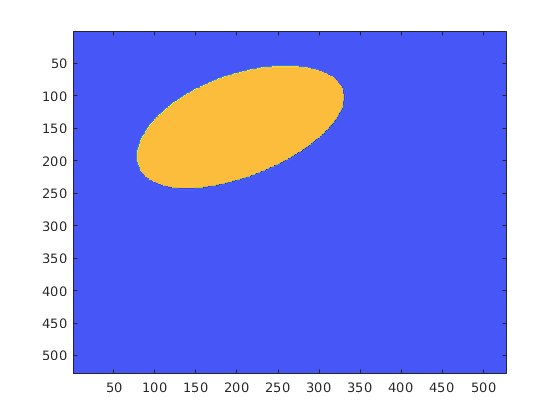
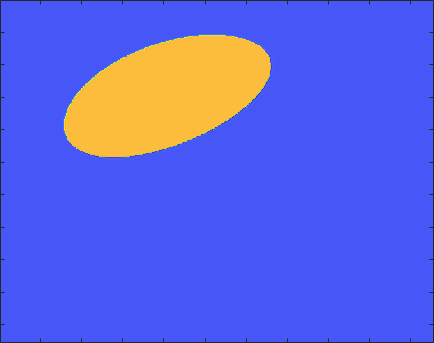
additional kernels

diff --git a/Laboratory/Scripts/ProtoPseudoReconstruction.m b/Laboratory/Scripts/ProtoPseudoReconstruction.m
@@ -1,7 +1,7 @@
-clear;
-clc;
+% clear;
+% clc;
 
-I = GetImageOfPower(GetRandomPower(4, - 1, 1, - 1, 1, false), - 1, 1, - 1, 1, 2 ^ 9 + 1, 2 ^ 9 + 1);
+% I = GetImageOfPower(GetRandomPower(4, - 1, 1, - 1, 1, false), - 1, 1, - 1, 1, 2 ^ 9 + 1, 2 ^ 9 + 1);
 
 P = [6435/8388608, -7293/8388608, -8415/1048576, 9945/1048576, 85085/2097152, -109395/2097152, -153153/1048576, 255255/1048576, 3828825/4194304, 3828825/4194304, 255255/1048576, -153153/1048576, -109395/2097152, 85085/2097152, 9945/1048576, -8415/1048576, -7293/8388608, 6435/8388608];
 n = 4;
@@ -42,6 +42,4 @@ for r = 0 : ceil(n / 2)
 end
 
 R = GetImageOfPower(quadprog(M' * M, [], [], [], eye(1, size(M, 2)), 1, [], [], [], optimset('display', 'off'))', 0, size(I, 1), 0, size(I, 2), 2 ^ 9 + 1, 2 ^ 9 + 1);
-imshow(I);
-figure;
 imshow(abs(I - R));

diff --git a/Bases/Power/Scripts/ReconstructPower.m b/Bases/Power/Scripts/ReconstructPower.m
@@ -1,19 +1,19 @@
-%clear;
-%clc;
+% clear;
+% clc;
 
 n = 4;
-x_a = - 1;
-x_b = 1;
-y_a = - 1;
-y_b = 1;
-m_x = 2 ^ 8;
-m_y = 2 ^ 8;
+x_a = - 16;
+x_b = 16;
+y_a = - 16;
+y_b = 16;
+m_x = 2 ^ 4;
+m_y = 2 ^ 4;
 psnr = - 1;
 
 x_n = m_x * (x_b - x_a) + 1;
 y_n = m_y * (y_b - y_a) + 1;
 
-%I = GetImageOfPower(GetRandomPower(n, x_a, x_b, y_a, y_b, false), x_a, x_b, y_a, y_b, x_n, y_n);
+% I = GetImageOfPower(IC, x_a, x_b, y_a, y_b, x_n, y_n);
 [C, D] = PowerReconstruction(I, n, x_a, x_b, y_a, y_b, psnr);
 R = GetImageOfPower(C, x_a, x_b, y_a, y_b, x_n, y_n);
 

diff --git a/Auxiliary/Cotronei/PolCoeffs.m b/Auxiliary/Cotronei/PolCoeffs.m
@@ -12,8 +12,8 @@ qcoeffs=Qpol(m,p,m-1-k);
 l=0;
 for j=-(M-a-(mod(m,2)==0)):b-1 %The exact number of coefficients involved in the formula is b-a+M-1
     l=l+1;
-%     c(l)=factorial(k)/factorial(m-1)*polyval(qcoeffs,j+(mod(m,2)==1)*.5);
-    c(l)=factorial(k)/factorial(m-1)*polyval(qcoeffs,j);
+    c(l)=factorial(k)/factorial(m-1)*polyval(qcoeffs,j+(mod(m,2)==1)*.5);
+%     c(l)=factorial(k)/factorial(m-1)*polyval(qcoeffs,j);
     %c(j+M+1)=factorial(k)/factorial(m-1)*polyval(qcoeffs,j);
 end
    

diff --git a/Laboratory/Scripts/ProtoReconstructPowerDB.m b/Laboratory/Scripts/ProtoReconstructPowerDB.m
@@ -1,24 +1,20 @@
-clear;
-clc;
+% clear;
+% clc;
 
 n = 4;
 
-x_a = - 1;
-x_b = 1;
-y_a = - 1;
-y_b = 1;
+x_a = - 16;
+x_b = 16;
+y_a = - 16;
+y_b = 16;
 
-m_x = 2 ^ 8;
-m_y = 2 ^ 8;
+m_x = 2 ^ 4;
+m_y = 2 ^ 4;
 
 psnr = - 1;
 
 x_n = m_x * (x_b - x_a) + 1;
 y_n = m_y * (y_b - y_a) + 1;
-
-I = GetImageOfPower(GetRandomPower(n, x_a, x_b, y_a, y_b, false), x_a, x_b, y_a, y_b, x_n, y_n);
-
-figure;
 
 R_best = zeros(size(I));
 

diff --git a/Laboratory/Scripts/PlotStatistics.m b/Laboratory/Scripts/PlotStatistics.m
@@ -1,3 +1,1 @@
-boxplot(X, 'Labels', {'Non-Separable Bernstein', 'Generalized Moments', 'Enhanced Generalized Moments'}, 'Colors', 'k', 'Whisker', 1000000000);
-title('Reconstruction Comparison of 100 Images with a PSNR of 50 dB');
-ylabel('Sørensen–Dice Coefficient');
+boxplot(D(:, 2 : 2), 'Colors', 'k', 'Whisker', 1000000000);
